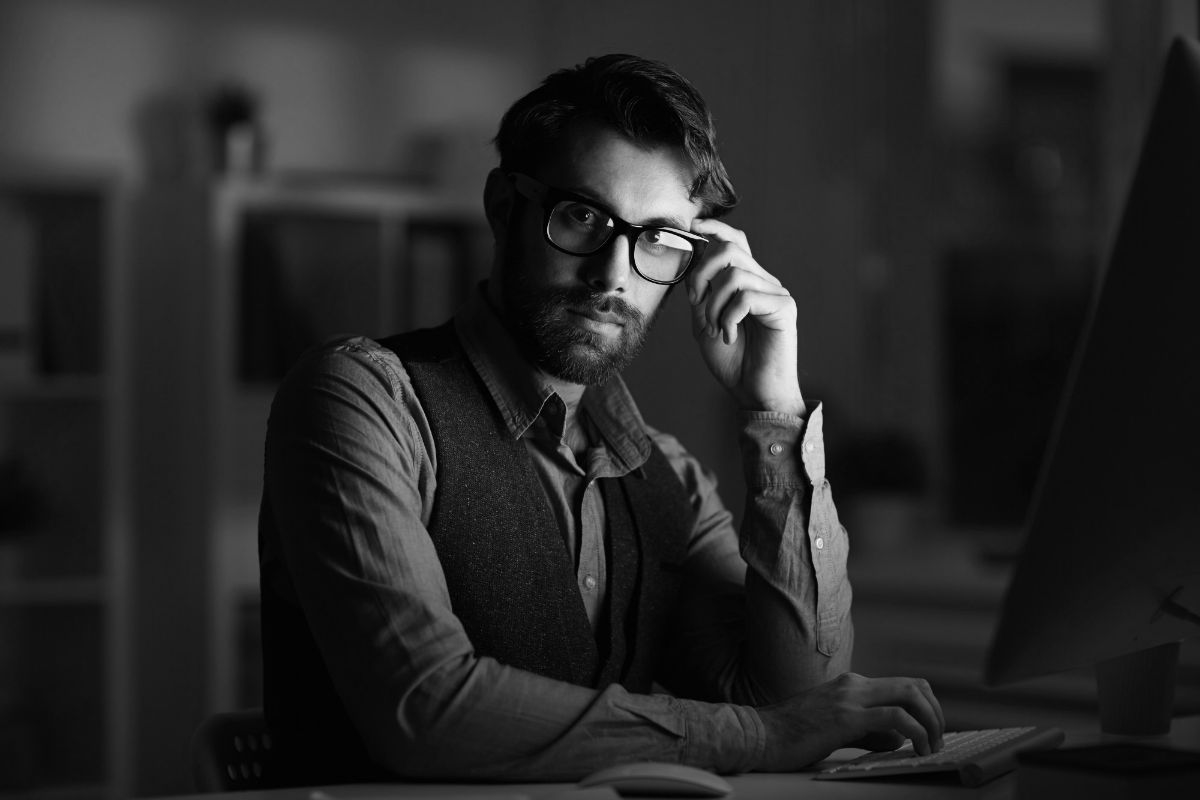
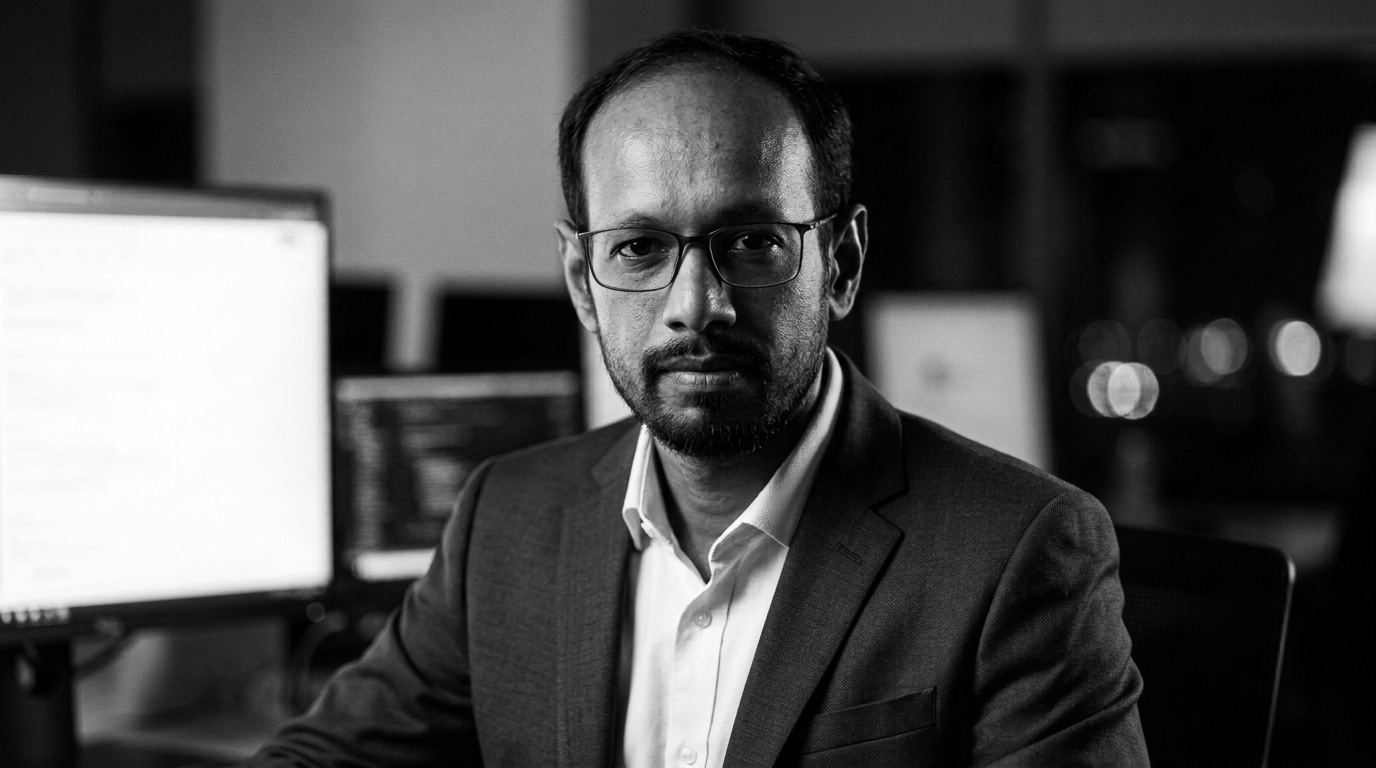
replaced holder image

diff --git a/src/data/site-config.ts b/src/data/site-config.ts
@@ -3,7 +3,7 @@ import hero from '../assets/images/hero.jpg';
 import type { SiteConfig } from '../types';
 
 const siteConfig: SiteConfig = {
-    website: 'https://example.com',
+    website: 'https://codenamesubho.dev',
     avatar: {
         src: avatar,
         alt: 'Subhendu Ghosh'
@@ -88,7 +88,7 @@ const siteConfig: SiteConfig = {
         }
     },
     postsPerPage: 8,
-    projectsPerPage: 1
+    projectsPerPage: 8
 };
 
 export default siteConfig;
